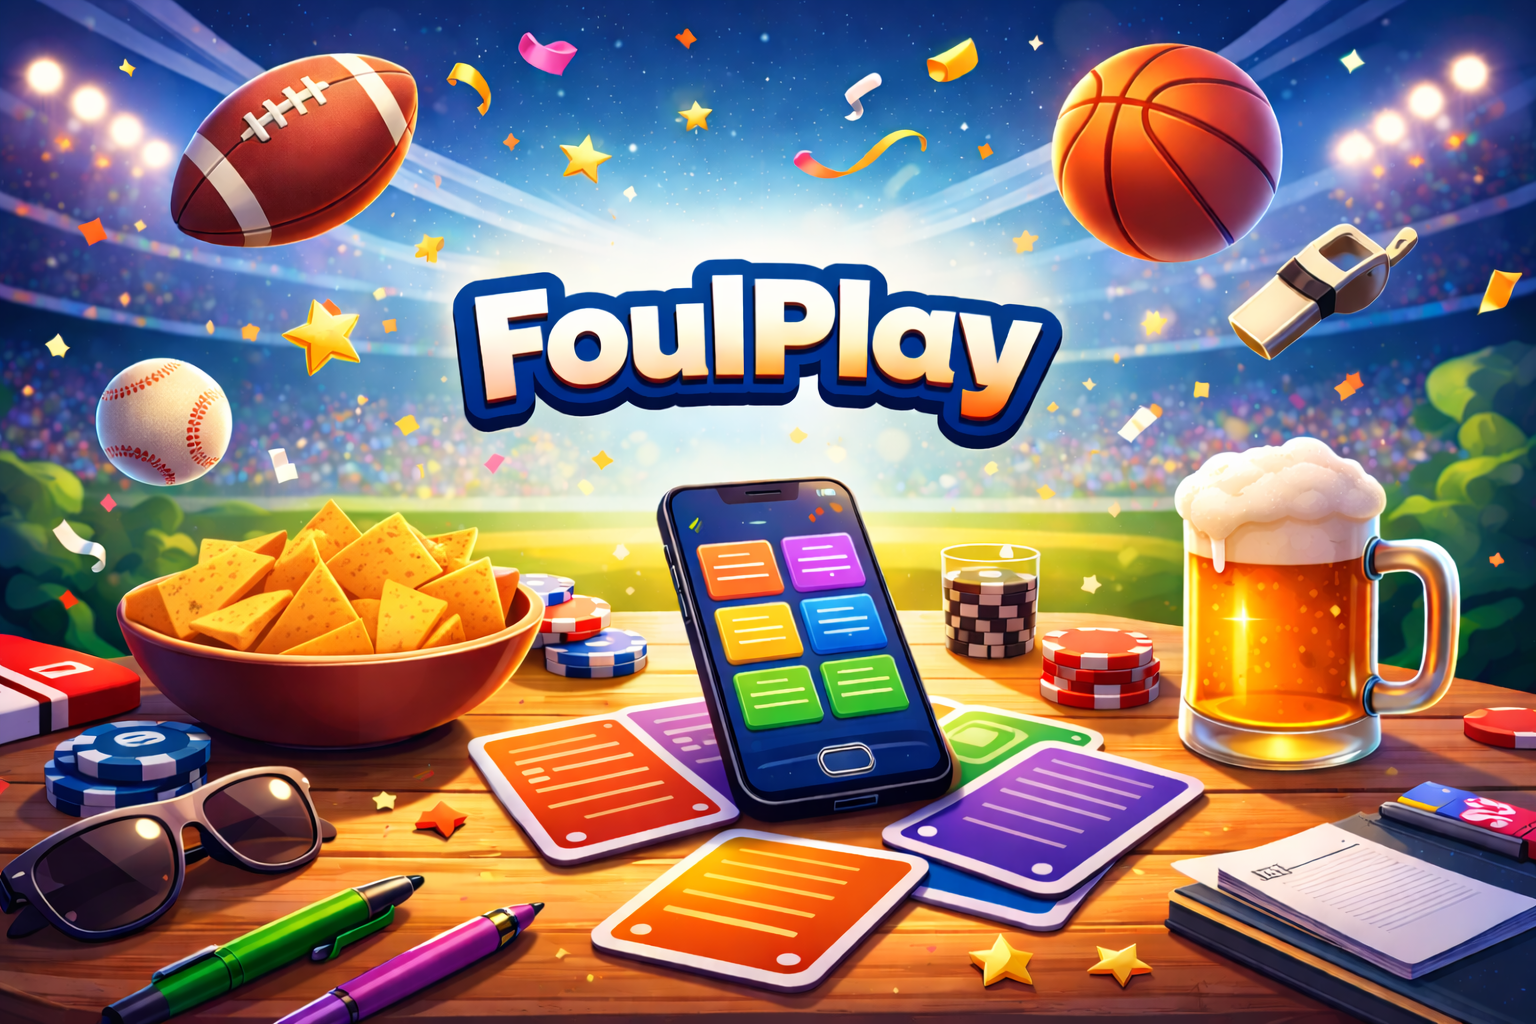
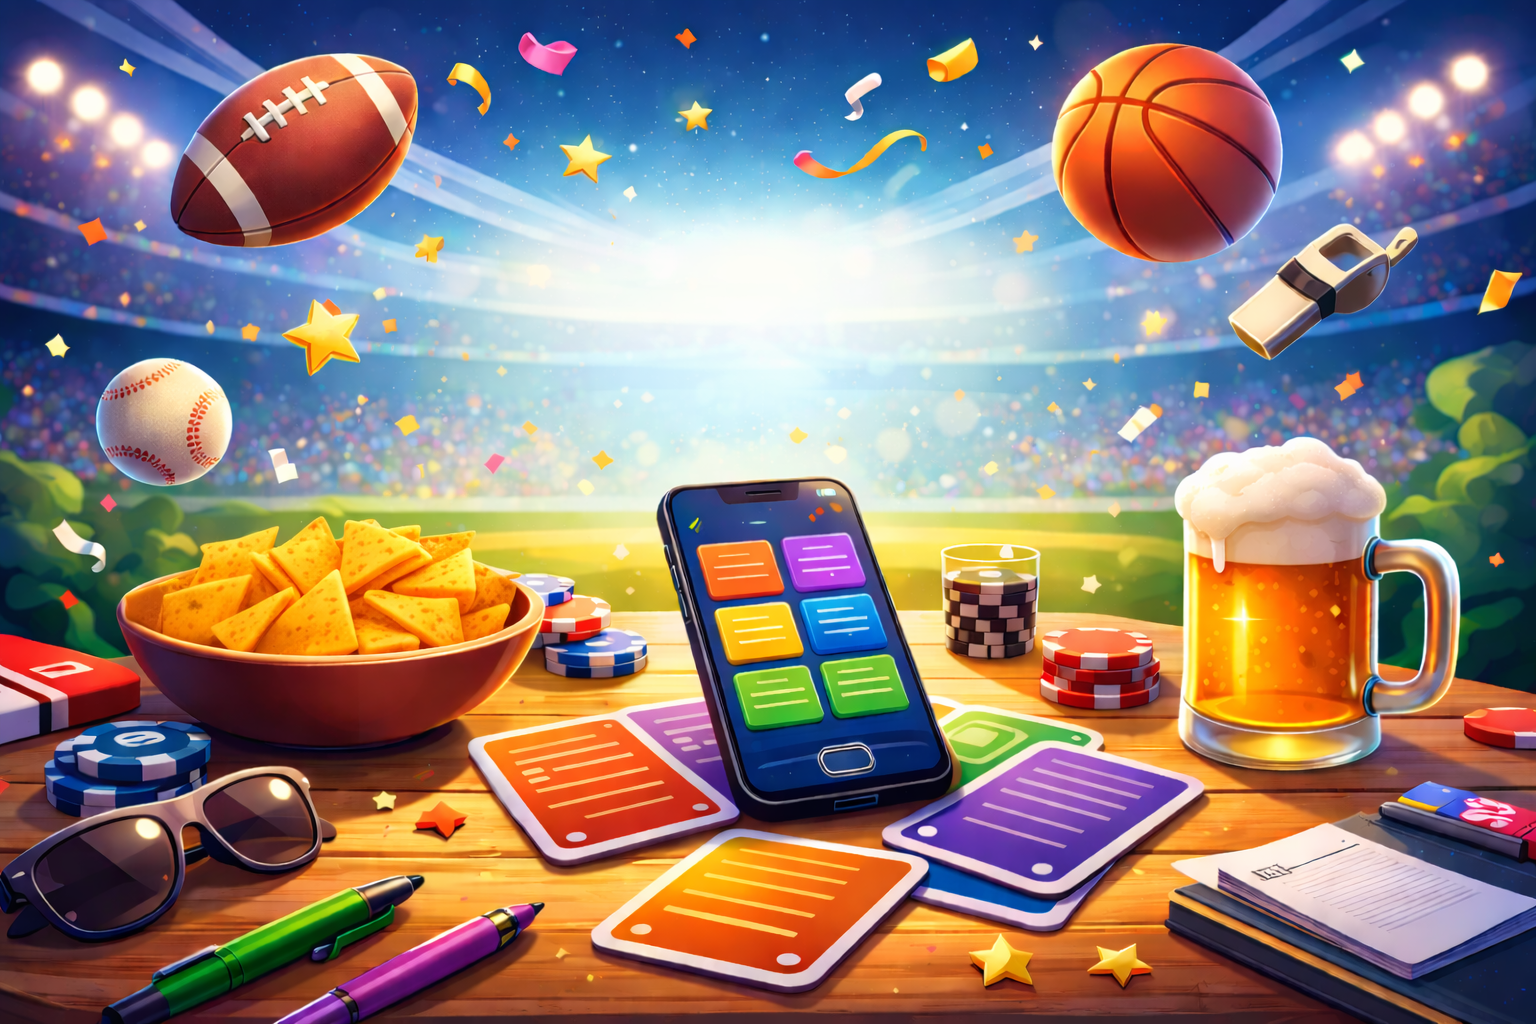
Update landing page styles and background image
- Enhanced the main heading on the landing page with updated font size, weight, and text shadow for improved visibility and aesthetics.
- Replaced the landing page background image to refresh the visual design.

diff --git a/app/page.tsx b/app/page.tsx
@@ -17,7 +17,7 @@ export default function Home() {
 
       <main className="relative z-10 flex min-h-screen w-full max-w-4xl flex-col items-center justify-center gap-6 md:gap-8 px-4 py-12 md:px-6 md:py-16">
         <div className="text-center space-y-3 md:space-y-4">
-          <h1 className="text-2xl md:text-page-title font-bold text-white drop-shadow-md">
+          <h1 className="text-4xl sm:text-5xl md:text-6xl lg:text-7xl font-extrabold text-white tracking-tight drop-shadow-2xl [text-shadow:0_0_40px_rgba(255,102,0,0.5)]">
             FoulPlay
           </h1>
           <p className="text-base md:text-section-title text-neutral-200 md:text-neutral-100">
